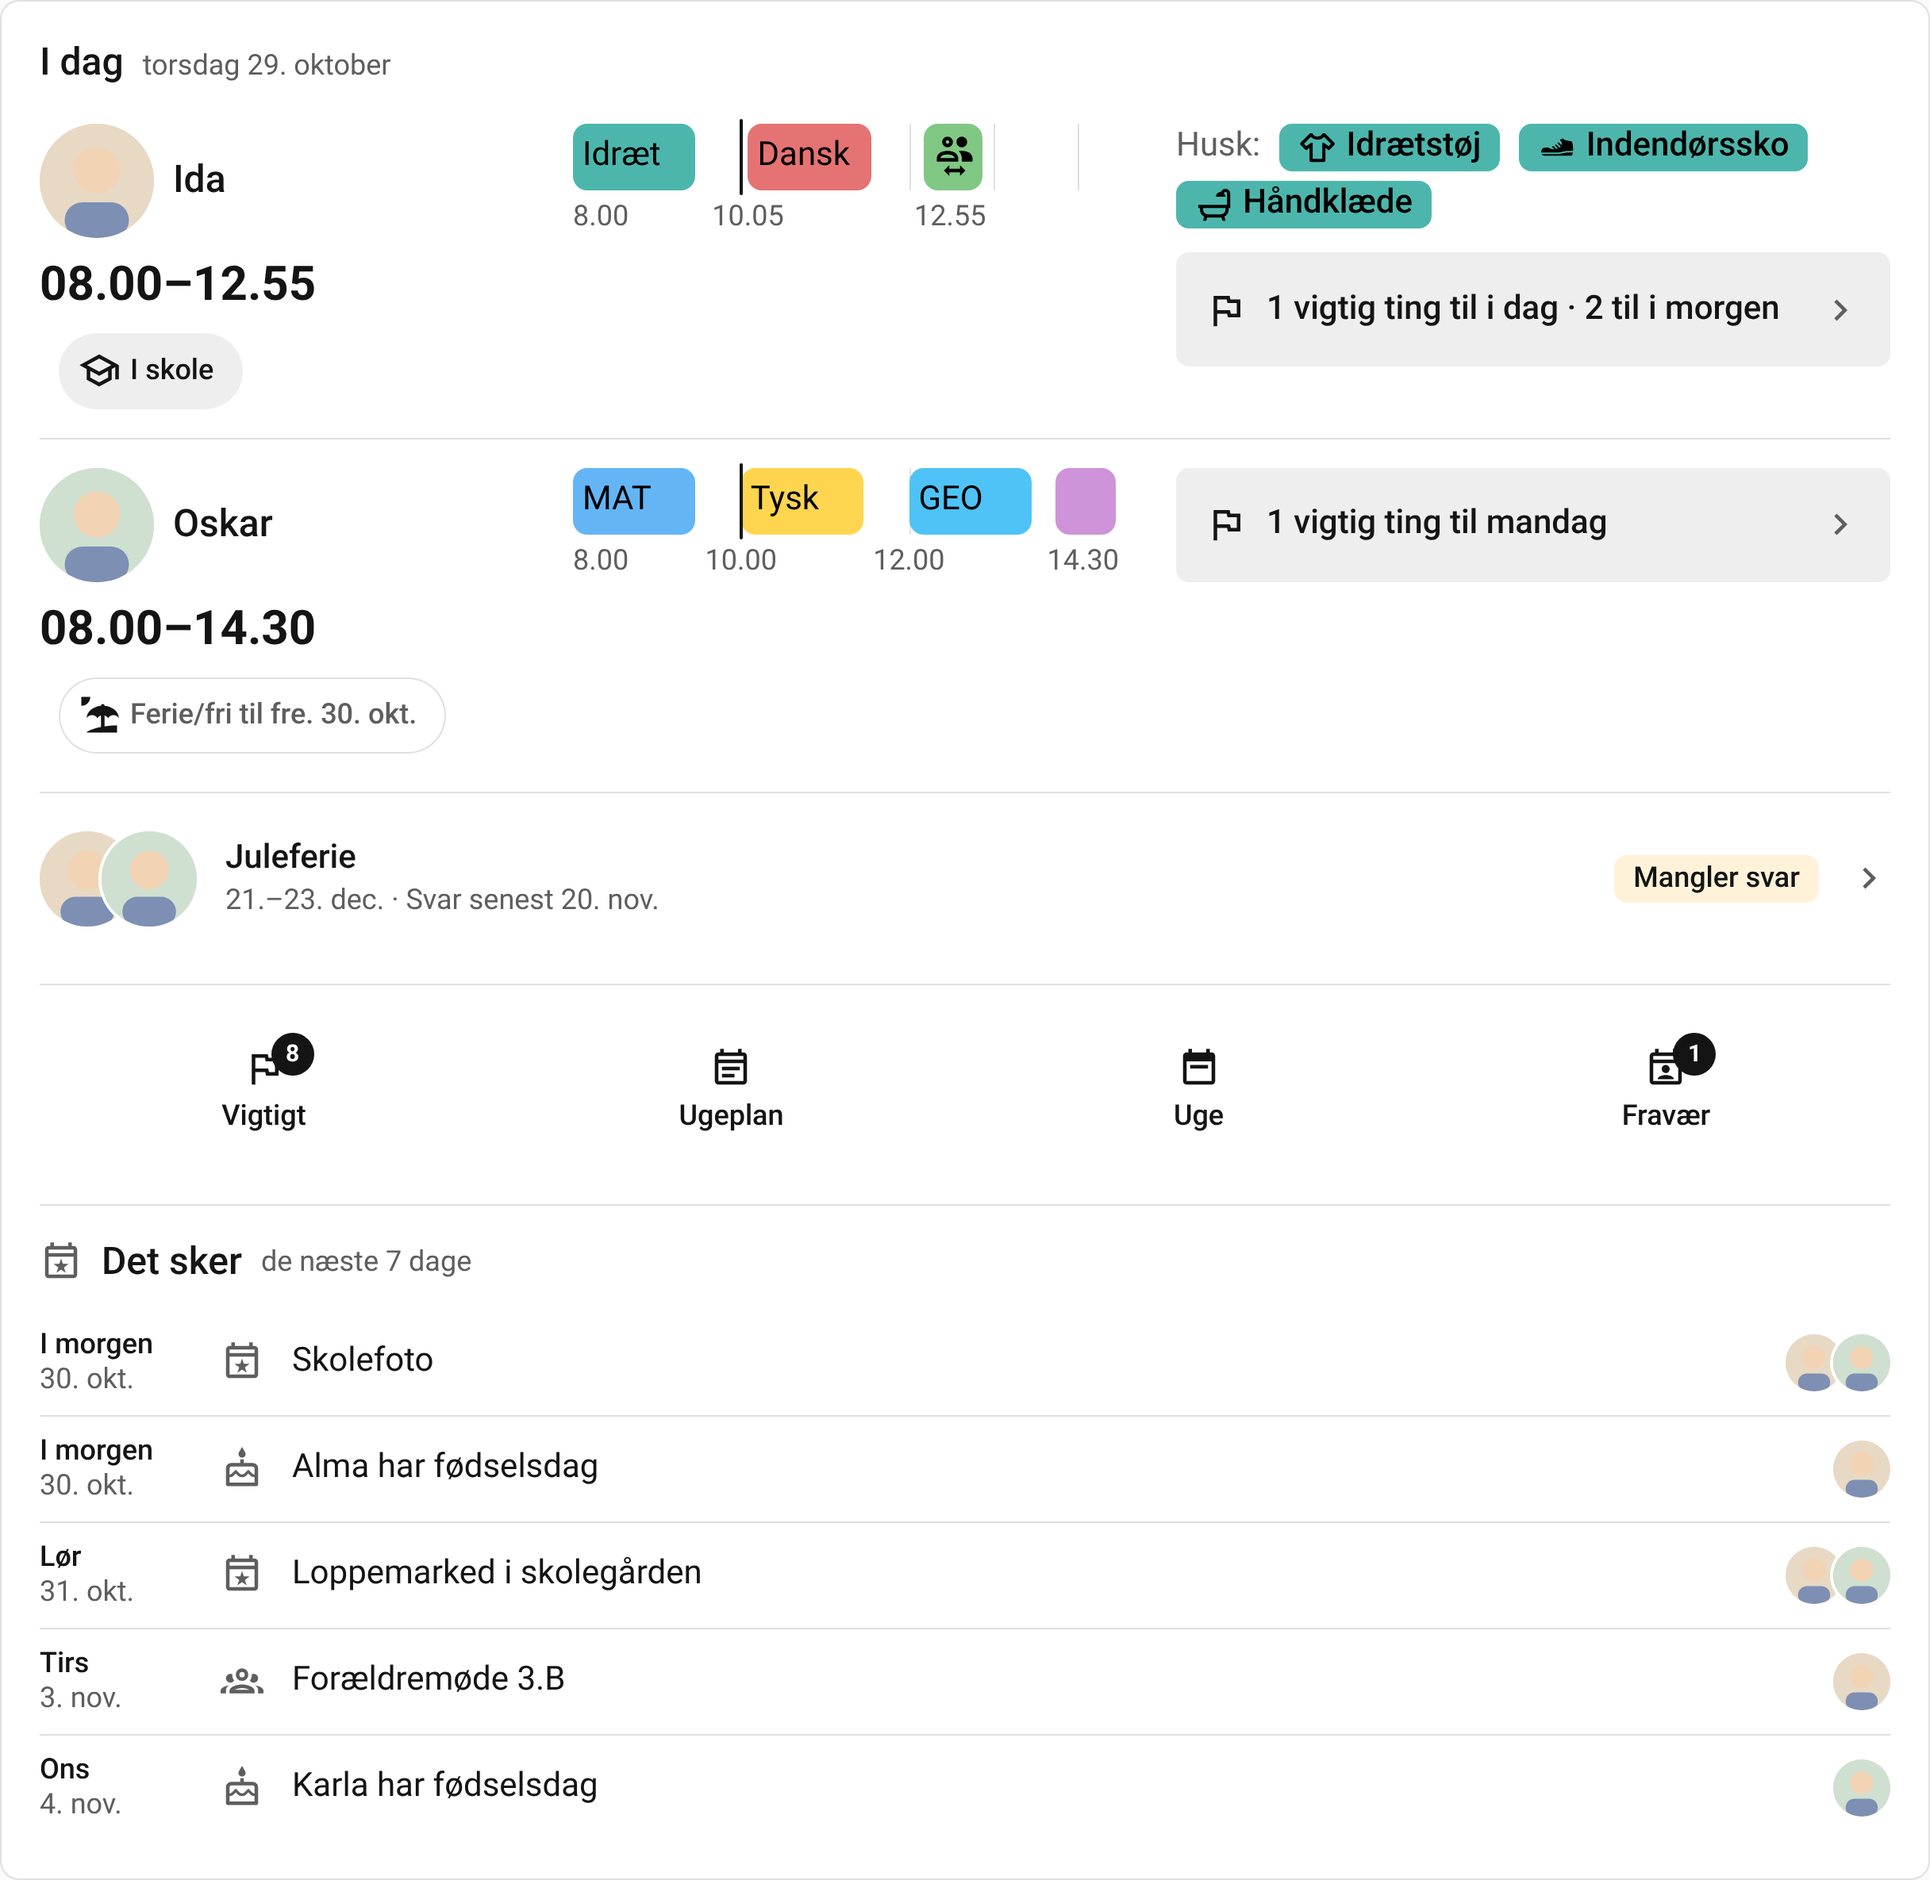
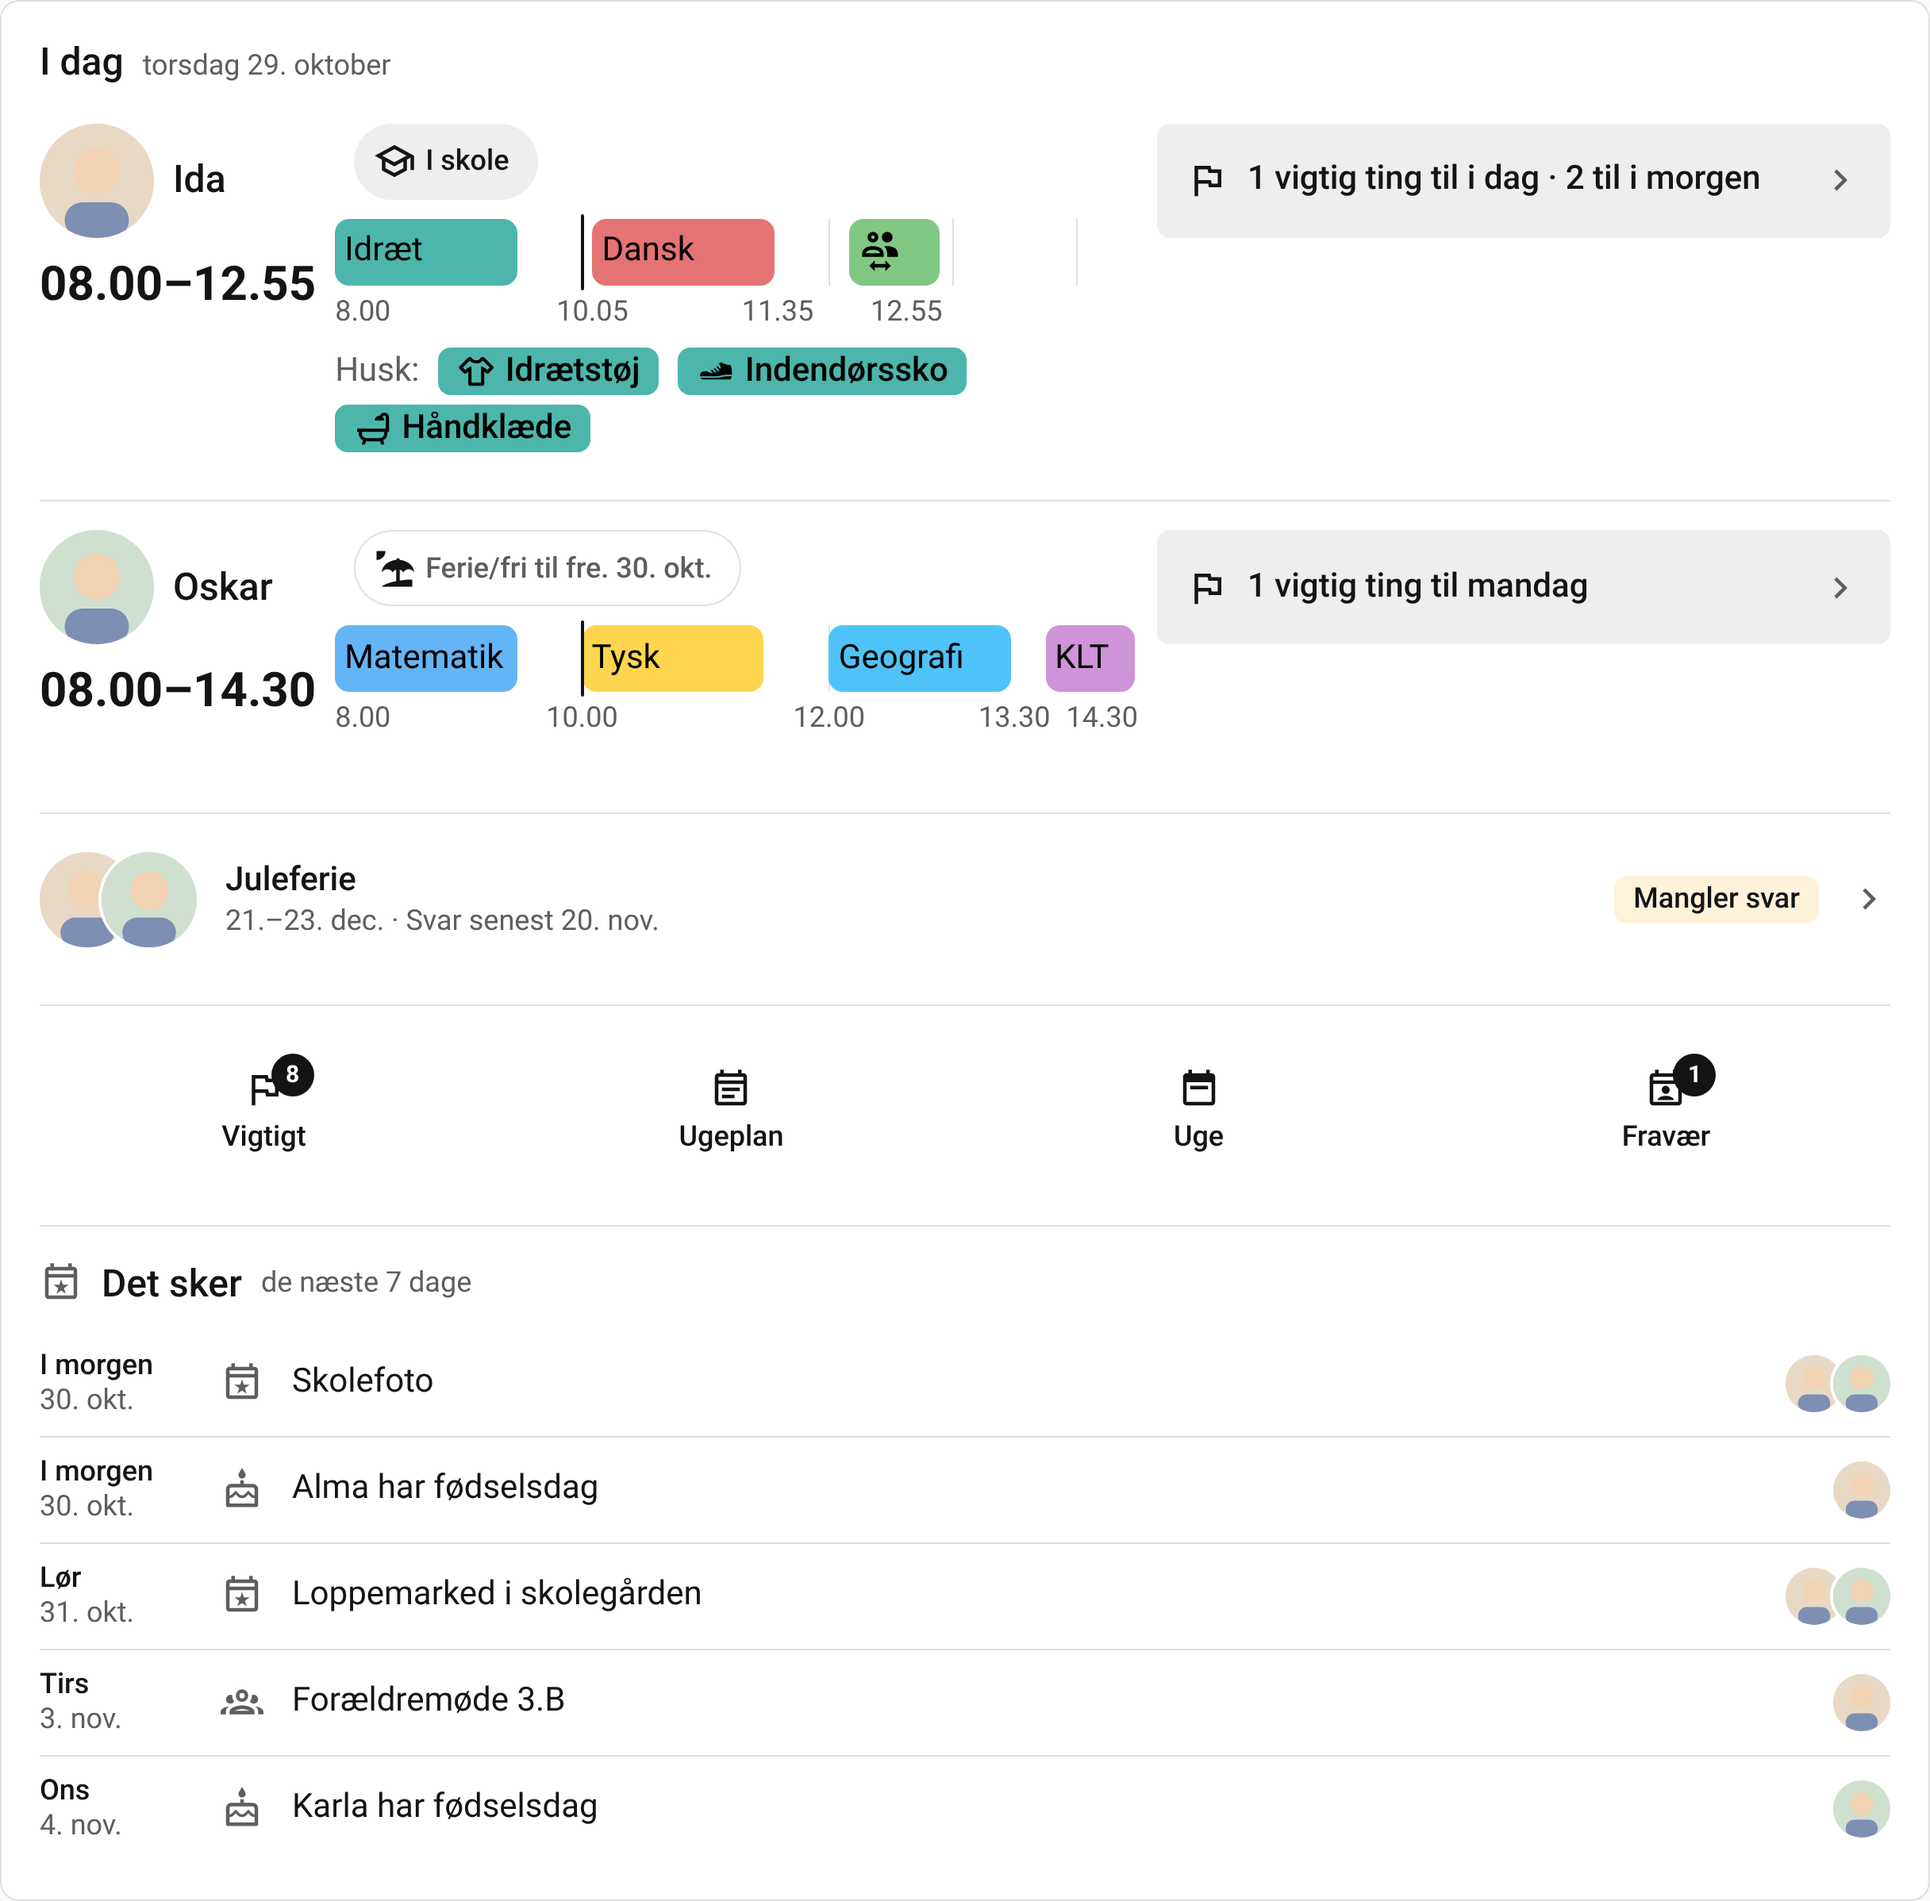
Put the rows' hours over the bar and what to bring under it
On a wide screen the rows' left column holds only the face and the name,
as wide as the longest name, so that the bar stands close to it; the
hours and the presence stand on a line over the bar, what to bring under
it, and only what is important at the right. The children's rows share
their columns, so that their bars still line up.

Claude-Session: https://claude.ai/code/session_01SqQDNZBDdSDZgAEZdkAgqw

diff --git a/src/ui/styles.ts b/src/ui/styles.ts
@@ -2448,6 +2448,12 @@ export const family = css`
     align-items: center;
     gap: var(--aula-space-2);
   }
+  .ov-ident {
+    display: flex;
+    flex-direction: column;
+    gap: var(--aula-space-2);
+    min-width: 0;
+  }
   /* The hours and the presence share a line, the presence at its end. */
   .ov-status {
     display: flex;
@@ -3041,20 +3047,33 @@ export const family = css`
   }
   /* On a wide screen a child's row has its face, its day's bar, and what to bring side by side. */
   @container aula (min-width: 840px) {
+    /* The children's rows share their columns, so that their bars line up: the face and the name,
+       as wide as the widest; the hours, the bar and what to bring; and what is important. */
+    .look-rows .ov-rows {
+      display: grid;
+      grid-template-columns:
+        fit-content(calc(220px * var(--aula-scale))) minmax(0, 1fr)
+        calc(300px * var(--aula-scale));
+      column-gap: var(--aula-space-6);
+    }
     .look-rows .ov-row {
       display: grid;
-      grid-template-columns: calc(200px * var(--aula-scale)) minmax(0, 1fr) calc(
-          300px * var(--aula-scale)
-        );
+      grid-column: 1 / -1;
+      grid-template-columns: subgrid;
       grid-auto-flow: dense;
-      gap: var(--aula-space-2) var(--aula-space-6);
+      row-gap: var(--aula-space-2);
       align-items: start;
     }
     .look-rows .ov-top {
-      grid-column: 1;
+      display: contents;
+    }
+    .look-rows .ov-top > .ov-ident {
       grid-row: 1 / span 3;
-      flex-direction: column;
-      align-items: flex-start;
+      grid-column: 1;
+    }
+    .look-rows .ov-top > .ov-status {
+      grid-row: 1;
+      grid-column: 2;
     }
     .look-rows .ov-status > .presence {
       margin-inline-start: 0;
@@ -3062,10 +3081,11 @@ export const family = css`
     .look-rows .ov-top .face {
       --aula-face: calc(48px * var(--aula-scale));
     }
-    .look-rows .ov-row > :not(.ov-top, .ov-pack, .ov-important) {
+    .look-rows .ov-row > :not(.ov-top, .ov-important, .ov-important-full) {
       grid-column: 2;
     }
-    .look-rows .ov-row > :is(.ov-pack, .ov-important) {
+    .look-rows .ov-row > :is(.ov-important, .ov-important-full) {
+      grid-row: 1 / span 4;
       grid-column: 3;
     }
     .ov-nav {

diff --git a/src/ui/overview.ts b/src/ui/overview.ts
@@ -545,7 +545,7 @@ function rows(
       (item, index) =>
         html`<section class="ov-row">
           <div class="ov-top">
-            ${who(item, state)} ${hoursBig(item, ctx)}
+            <div class="ov-ident">${who(item, state)} ${hoursBig(item, ctx)}</div>
             <span class="ov-status"
               ><span class="ov-hours"
                 >${dayLine(item, ctx, view.sameDay !== undefined)}${hoursOf(item, ctx)}</span

diff --git a/README.md b/README.md
@@ -297,8 +297,10 @@ children.
 
 Three looks, chosen in the children's bar or kept with `look`:
 
-- **Rækker** (`rows`): a row per child, its hours and presence on one line; on the wall, the
-  face, the bar and what to bring side by side, with the school hours in large.
+- **Rækker** (`rows`): a row per child: its hours and presence on one line over its bar, and what
+  to bring under it. On a wide screen the face and the name stand at the left, as wide as the
+  longest name, the children's bars lined up beside them, and what is important at the right; on
+  the wall the school hours stand in large under the name.
 - **Kolonner** (`columns`): a column per child, with what is important soon listed.
 - **Tavle** (`board`): large tiles for the children themselves, read from across the room: the
   school hours, from and to, in large under the name; today's subjects in the order of the day,
